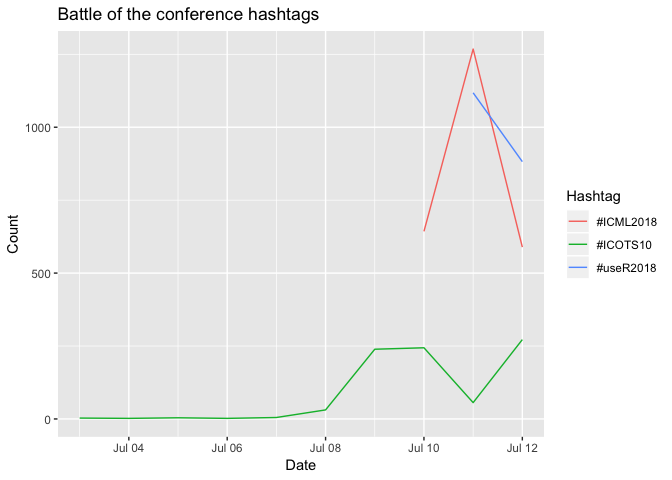
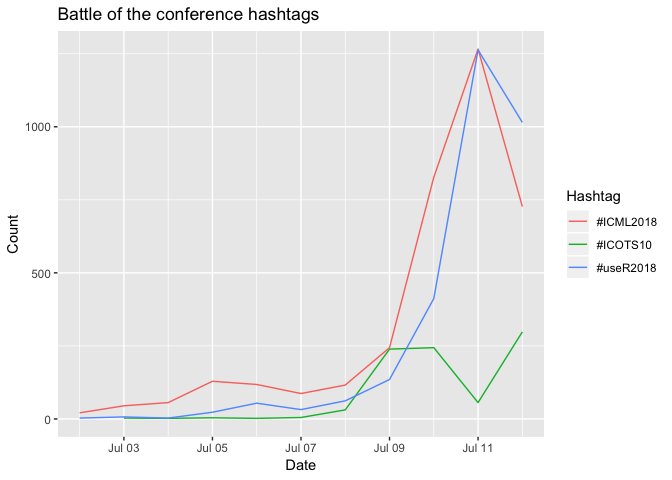
Improve tweet number

diff --git a/_posts/2018-07-11-icots10-tweets.md b/_posts/2018-07-11-icots10-tweets.md
@@ -6,6 +6,7 @@ tags:
   - R-code
   - social-media
 ---
+
 A tweet comparing ICML and useR got me thinking, and I've wanted to use the `twitteR` or `rtweet` package for a while...
 
 <blockquote class="twitter-tweet" data-lang="en">
@@ -16,6 +17,7 @@ How does <a href="https://twitter.com/hashtag/ICOTS10?src=hash&amp;ref_src=twsrc
 </blockquote>
 <script async src="https://platform.twitter.com/widgets.js" charset="utf-8"></script>
 
+-   [Number of tweets by conference](#number-of-tweets-by-conference)
 -   [How about number of retweets by conference?](#how-about-number-of-retweets-by-conference)
 -   [Number of favourites?](#number-of-favourites)
 -   [What about percentage of tweets getting favourited or retweeted?](#what-about-percentage-of-tweets-getting-favourited-or-retweeted)
@@ -24,11 +26,10 @@ How does <a href="https://twitter.com/hashtag/ICOTS10?src=hash&amp;ref_src=twsrc
 -   [Emojis ❤](#emojis)
 -   [Checking if we can scrape the emoji lists](#checking-if-we-can-scrape-the-emoji-lists)
 -   [Scraping the emoji lists](#scraping-the-emoji-lists)
--   [Is this just because of emoji spammers?](#is-this-just-because-of-emoji-spammers)
 -   [More from ICOTS](#more-from-icots)
 -   [Vanity time: My best tweets?](#vanity-time-my-best-tweets)
 
-*Last updated:* 12 Jul approx 9:33pm Kyoto time.
+*Last updated:* 12 Jul approx 11:15pm Kyoto time.
 
 Here are some libraries we'll use. (Also note that I made a [GitHub gist with the code to get from the beginning to the first graph](https://gist.github.com/elb0/221b98cd7f89674515f2a25a6cde5859).) I couldn't get the authentication to work for `rtweet`, unfortunately.
 
@@ -44,6 +45,7 @@ library(robotstxt)
 library(rvest)
 library(tibble)
 library(data.table)
+library(DT)
 {% endhighlight %}
 
 Just one thing to be careful of, you'll need to get your own twitter keys. [This might be quite helpful](https://medium.com/@GalarnykMichael/accessing-data-from-twitter-api-using-r-part1-b387a1c7d3e). I had to reset my keys to get the code to work. Not sure why, but [others have had the same issue](https://github.com/geoffjentry/twitteR/issues/74).
@@ -59,9 +61,9 @@ The tweet that inspired this shared a tweet that compared useR (a conference abo
 Also note, the `n =` were chosen by trial and error. Very sophisticated.
 
 {% highlight r %}
-icots = searchTwitter('#icots10', n = 1000)
-user = searchTwitter('#useR2018', n = 2000)
-icml = searchTwitter('#ICML2018', n = 2500)
+icots = searchTwitter('#icots10', n = 1100)
+user = searchTwitter('#useR2018', n = 3200)
+icml = searchTwitter('#ICML2018', n = 4000)
 
 icots_tweets = twListToDF(icots) %>%
   mutate(Hashtag = "#ICOTS10")
@@ -92,9 +94,7 @@ all_tweets = rbind(icots_tweets, user_tweets, icml_tweets) %>%
   mutate(date = format(created, format="%Y-%m-%d")) %>%
   filter(!str_detect(text, "@EthereumLimited:")) %>%
   filter(!str_detect(text, "Ethlimited"))
-{% endhighlight %}
 
-{% highlight r %}
 all_noRT = rbind(icots_noRT, user_noRT, icml_noRT) %>%
   mutate(date = format(created, format="%Y-%m-%d")) %>%
   filter(!str_detect(text, "@EthereumLimited:")) %>%
@@ -102,6 +102,8 @@ all_noRT = rbind(icots_noRT, user_noRT, icml_noRT) %>%
 {% endhighlight %}
 
 Let's take a look!
+
+### Number of tweets by conference
 
 {% highlight r %}
 all_tweets %>%
@@ -196,7 +198,7 @@ topretweetuser = toptweet %>%
   filter(Hashtag == "#useR2018")
 {% endhighlight %}
 
-Check out the most retweeted [ICOTS tweet](https://twitter.com/anyuser/status/1017390498275909634), [ICML tweet](https://twitter.com/anyuser/status/1017383089415380993) and [useR tweet](https://twitter.com/anyuser/status/1017379649549144067).
+Check out the most retweeted [ICOTS tweet](https://twitter.com/anyuser/status/1017403257851822080), [ICML tweet](https://twitter.com/anyuser/status/1017411760339341312) and [useR tweet](https://twitter.com/anyuser/status/1017410998725050368).
 
 ### The most favourites?
 
@@ -216,15 +218,15 @@ topfavuser = topfav %>%
   filter(Hashtag == "#useR2018")
 {% endhighlight %}
 
-Check out the most favourited [ICOTS tweet](https://twitter.com/anyuser/status/1016569243947724800), [ICML tweet](https://twitter.com/anyuser/status/1017059295052140544) and [useR tweet](https://twitter.com/anyuser/status/1016912611529510913).
+Check out the most favourited [ICOTS tweet](https://twitter.com/anyuser/status/1017244182035849216), [ICML tweet](https://twitter.com/anyuser/status/1017059295052140544) and [useR tweet](https://twitter.com/anyuser/status/1014967711036829696).
 
 ### Emojis ❤
 
 What better place to explore emojis from than the country that gave us the language that gave us the word! Ya follow? Emoji is a Japanese word that, if a quick Google search is to be believed, means "picture character".
 
-Anna Fergusson, \[@annafergussonnz\](<https://twitter.com/annafergussonnz>), and I, in our talk on [modern data in a large introductory statistics course](https://annafergusson.github.io/paristergram/) based on the awesome work Anna has been driving, tried to quickly show how emoji analysis can be a bit of fun. So let's keep that up here.
+Anna Fergusson, (@annafergussonnz)\[<https://twitter.com/annafergussonnz>\], and I, in our talk on (modern data in a large introductory statistics course)\[<https://annafergusson.github.io/paristergram/>\] based on the awesome work Anna has been driving, tried to quickly show how emoji analysis can be a bit of fun. So let's keep that up here.
 
-This first section is mostly just copied from the work Anna and I did that will be up on the \[Parisgram site\]((<https://annafergusson.github.io/paristergram/>) at somepoint. The emoji handling is not very elegant right now.
+This first section is mostly just copied from the work Anna and I did that will be up on the (Parisgram site)\[<https://annafergusson.github.io/paristergram/>\] at somepoint. The emoji handling is not very elegant right now.
 
 There is a table provided by the Unicode organisation that has the emoji, and an additional one that details skintone variations. These also provide a text description and groups the emoji into wider groups, like flags, buildings, types of facial expression etc. It would be ideal to have that information in R to work with directly, so I want to scrape the tables into R. I can check if this seems to be allowed by using the `robotstxt` package. There are a range of other ways to get databases like this, this just seemed easiest for this case.
 
@@ -369,11 +371,13 @@ emoji_prop_user = sum(!is.na(emoji_spread_user$`1`))/dim(unique_user)[1]
 emoji_prop_icml = sum(!is.na(emoji_spread_icml$`1`))/dim(unique_icml)[1]
 {% endhighlight %}
 
-So 6% of ICOTS tweets had at least one emoji in them, 12% of useR tweets and 4% of ICML tweets.
+So 7% of ICOTS tweets had at least one emoji in them, 13% of useR tweets and 3% of ICML tweets.
 
 #### Which emoji were the most popular?
 
 This is a not very elegant function to count how many times each emoji in the emoji\_ref dataframe appears in the text you're analysing (in the form of the all columns from the emoji\_spread dataset). I'm also not 100% sure the tryCatch is set up properly - it needs a tryCatch because I keep getting errors for the keycap: \* emoji.
+
+The second function doesn't count repeats of emoji in that same tweet. I know at least one of my tweets had a gratuitous number of hand clap emojis. Will not counting repeats in a tweet change the top used emoji? `str_detect` is quite useful for that.
 
 {% highlight r %}
 emoji_counter = function(data_col, emoji_from_ref){
@@ -383,99 +387,7 @@ emoji_counter = function(data_col, emoji_from_ref){
   )
   return(counts)
 }
-{% endhighlight %}
 
-#### Top \#ICOTS10 emojis
-
-{% highlight r %}
-# This can take a bit of time to run
-emoji_counts_icots = emoji_ref %>%
-  rowwise() %>%
-  mutate(counts = NA) %>%
-  mutate(counts = emoji_counter(emoji_spread_icots$all, emoji)) %>%
-  arrange(number) %>%
-  mutate(rank = round(rank(-counts), 0)) %>%
-  select(-c(character_length, number)) %>%
-  filter(counts > 0) %>%
-  arrange(desc(counts)) %>%
-  filter(rank <= 5) %>%
-  select(emoji, short_name, counts)
-emoji_counts_icots
-{% endhighlight %}
-
-    ## # A tibble: 4 x 3
-    ##   emoji short_name                   counts
-    ##   <chr> <fct>                         <int>
-    ## 1 😍    smiling face with heart-eyes      8
-    ## 2 🔥    fire                              6
-    ## 3 👏    clapping hands                    5
-    ## 4 😂    face with tears of joy            3
-
-#### Top \#useR2018 emoji
-
-{% highlight r %}
-emoji_counts_user = emoji_ref %>%
-  rowwise() %>%
-  mutate(counts = NA) %>%
-  mutate(counts = emoji_counter(emoji_spread_user$all, emoji)) %>%
-  arrange(number) %>%
-  mutate(rank = round(rank(-counts), 0)) %>%
-  select(-c(character_length, number)) %>%
-  filter(counts > 0)  %>%
-  arrange(desc(counts)) %>%
-  filter(rank <= 5) %>%
-  select(emoji, short_name, counts)
-emoji_counts_user
-{% endhighlight %}
-
-    ## # A tibble: 4 x 3
-    ##   emoji short_name                   counts
-    ##   <chr> <fct>                         <int>
-    ## 1 🏉    rugby football                   18
-    ## 2 📦    package                          16
-    ## 3 🌧    cloud with rain                   9
-    ## 4 😍    smiling face with heart-eyes      7
-
-#### Top \#ICML2018 emoji
-
-{% highlight r %}
-emoji_counts_icml = emoji_ref %>%
-  rowwise() %>%
-  mutate(counts = NA) %>%
-  mutate(counts = emoji_counter(emoji_spread_icml$all, emoji)) %>%
-  arrange(number) %>%
-  mutate(rank = round(rank(-counts), 0)) %>%
-  select(-c(character_length, number)) %>%
-  filter(counts > 0)  %>%
-  arrange(desc(counts)) %>%
-  filter(rank <= 5) %>%
-  select(emoji, short_name, counts)
-emoji_counts_icml
-{% endhighlight %}
-
-    ## # A tibble: 6 x 3
-    ##   emoji short_name                      counts
-    ##   <chr> <fct>                            <int>
-    ## 1 🔥    fire                                 8
-    ## 2 😂    face with tears of joy               3
-    ## 3 😄    grinning face with smiling eyes      2
-    ## 4 🤔    thinking face                        2
-    ## 5 🙌    raising hands                        2
-    ## 6 ✈    airplane                             2
-
-Previous tops here:
-<blockquote class="twitter-tweet" data-lang="en">
-<p lang="en" dir="ltr">
-Top 5ish emojis from three different conferences (as of 15 mins ago). Ranked 1-5ish, left to right, in ( ) means equal counts.<a href="https://twitter.com/hashtag/ICOTS10?src=hash&amp;ref_src=twsrc%5Etfw">\#ICOTS10</a> 😍👏(😂🐱🎨🎼)<a href="https://twitter.com/hashtag/useR2018?src=hash&amp;ref_src=twsrc%5Etfw">\#useR2018</a>: 📦👌(😍🌧)<a href="https://twitter.com/hashtag/ICML2018?src=hash&amp;ref_src=twsrc%5Etfw">\#ICML2018</a>: 🔥😂(😁🤔🙌✈✔)<br><br>Code: <a href="https://t.co/yixpezWy8p">https://t.co/yixpezWy8p</a><br>Of course, this tweet will mess it up!
-</p>
-— Liza Bolton (@Liza\_Bolton) <a href="https://twitter.com/Liza_Bolton/status/1017216200697212928?ref_src=twsrc%5Etfw">July 12, 2018</a>
-</blockquote>
-<script async src="https://platform.twitter.com/widgets.js" charset="utf-8"></script>
-### Is this just because of emoji spammers?
-
-I know at least one of my tweets had a gratuitous number of hand clap emojis. What if we limit to one per Tweet? Does that change the top used emoji? `str_detect` is quie useful for that.
-
-{% highlight r %}
 emoji_counter_single = function(data_col, emoji_from_ref){
   counts = tryCatch({
     sum(str_detect(data_col, emoji_from_ref))
@@ -485,86 +397,83 @@ emoji_counter_single = function(data_col, emoji_from_ref){
 }
 {% endhighlight %}
 
-#### Top \#ICOTS10 emojis - less spammy
+You can short by either ranking (`count` or `rank` include repeats in a tweet, `count_single` and `rank_single` don't include repeats within a tweet)
+
+#### Top \#ICOTS10 emojis
 
 {% highlight r %}
 # This can take a bit of time to run
-emoji_counts_icots_ = emoji_ref %>%
+emoji_counts_icots = emoji_ref %>%
   rowwise() %>%
   mutate(counts = NA) %>%
-  mutate(counts = emoji_counter_single(emoji_spread_icots$all, emoji)) %>%
+  mutate(counts = emoji_counter(emoji_spread_icots$all, emoji)) %>%
+  mutate(counts_single = emoji_counter_single(emoji_spread_icots$all, emoji)) %>%
   arrange(number) %>%
   mutate(rank = round(rank(-counts), 0)) %>%
+  mutate(rank_single = round(rank(-counts_single), 0)) %>%
   select(-c(character_length, number)) %>%
   filter(counts > 0) %>%
   arrange(desc(counts)) %>%
-  filter(rank <= 5) %>%
-  select(emoji, short_name, counts)
-emoji_counts_icots_
+  select(emoji, short_name, counts, rank, counts_single, rank_single)
+DT::datatable(emoji_counts_icots)
 {% endhighlight %}
 
-    ## # A tibble: 7 x 3
-    ##   emoji short_name                   counts
-    ##   <chr> <fct>                         <int>
-    ## 1 😍    smiling face with heart-eyes      4
-    ## 2 😂    face with tears of joy            3
-    ## 3 ❤    red heart                         2
-    ## 4 🐱    cat face                          2
-    ## 5 🔥    fire                              2
-    ## 6 🎨    artist palette                    2
-    ## 7 🎼    musical score                     2
+<!--html_preserve-->
 
-#### Top \#useR2018 emoji - less spammy
+<script type="application/json" data-for="htmlwidget-fb98d4395036a94a422f">{"x":{"filter":"none","data":[["1","2","3","4","5","6","7","8","9","10","11","12","13","14","15","16","17","18","19"],["😍","🔥","👏","😂","❤","🐱","⚡","🎨","🎼","😀","🙂","😔","😢","👩","💥","🏫","🗼","🎸","🇫🇷"],["smiling face with heart-eyes","fire","clapping hands","face with tears of joy","red heart","cat face","high voltage","artist palette","musical score","grinning face","slightly smiling face","pensive face","crying face","woman","collision","school","Tokyo tower","guitar","flag: France"],[8,6,5,3,2,2,2,2,2,1,1,1,1,1,1,1,1,1,1],[1,2,3,4,7,7,7,7,7,14,14,14,14,14,14,14,14,14,14],[4,2,1,3,2,2,1,2,2,1,1,1,1,1,1,1,1,1,1],[1,5,14,2,5,5,14,5,5,14,14,14,14,14,14,14,14,14,14]],"container":"<table class=\"display\">\n  <thead>\n    <tr>\n      <th> <\/th>\n      <th>emoji<\/th>\n      <th>short_name<\/th>\n      <th>counts<\/th>\n      <th>rank<\/th>\n      <th>counts_single<\/th>\n      <th>rank_single<\/th>\n    <\/tr>\n  <\/thead>\n<\/table>","options":{"columnDefs":[{"className":"dt-right","targets":[3,4,5,6]},{"orderable":false,"targets":0}],"order":[],"autoWidth":false,"orderClasses":false}},"evals":[],"jsHooks":[]}</script>
+<!--/html_preserve-->
+#### Top \#useR2018 emoji
 
 {% highlight r %}
-emoji_counts_user_ = emoji_ref %>%
+emoji_counts_user = emoji_ref %>%
   rowwise() %>%
   mutate(counts = NA) %>%
-  mutate(counts = emoji_counter_single(emoji_spread_user$all, emoji)) %>%
+  mutate(counts = emoji_counter(emoji_spread_icots$all, emoji)) %>%
+  mutate(counts_single = emoji_counter_single(emoji_spread_icots$all, emoji)) %>%
   arrange(number) %>%
   mutate(rank = round(rank(-counts), 0)) %>%
+  mutate(rank_single = round(rank(-counts_single), 0)) %>%
   select(-c(character_length, number)) %>%
-  filter(counts > 0)  %>%
+  filter(counts > 0) %>%
   arrange(desc(counts)) %>%
-  filter(rank <= 5) %>%
-  select(emoji, short_name, counts)
-emoji_counts_user_
+  select(emoji, short_name, counts, rank, counts_single, rank_single)
+DT::datatable(emoji_counts_user)
 {% endhighlight %}
 
-    ## # A tibble: 3 x 3
-    ##   emoji short_name                   counts
-    ##   <chr> <fct>                         <int>
-    ## 1 📦    package                          14
-    ## 2 😂    face with tears of joy            6
-    ## 3 😍    smiling face with heart-eyes      5
+<!--html_preserve-->
 
-#### Top \#ICML2018 emoji - less spammy
+<script type="application/json" data-for="htmlwidget-25f3521cd4187faa4b63">{"x":{"filter":"none","data":[["1","2","3","4","5","6","7","8","9","10","11","12","13","14","15","16","17","18","19"],["😍","🔥","👏","😂","❤","🐱","⚡","🎨","🎼","😀","🙂","😔","😢","👩","💥","🏫","🗼","🎸","🇫🇷"],["smiling face with heart-eyes","fire","clapping hands","face with tears of joy","red heart","cat face","high voltage","artist palette","musical score","grinning face","slightly smiling face","pensive face","crying face","woman","collision","school","Tokyo tower","guitar","flag: France"],[8,6,5,3,2,2,2,2,2,1,1,1,1,1,1,1,1,1,1],[1,2,3,4,7,7,7,7,7,14,14,14,14,14,14,14,14,14,14],[4,2,1,3,2,2,1,2,2,1,1,1,1,1,1,1,1,1,1],[1,5,14,2,5,5,14,5,5,14,14,14,14,14,14,14,14,14,14]],"container":"<table class=\"display\">\n  <thead>\n    <tr>\n      <th> <\/th>\n      <th>emoji<\/th>\n      <th>short_name<\/th>\n      <th>counts<\/th>\n      <th>rank<\/th>\n      <th>counts_single<\/th>\n      <th>rank_single<\/th>\n    <\/tr>\n  <\/thead>\n<\/table>","options":{"columnDefs":[{"className":"dt-right","targets":[3,4,5,6]},{"orderable":false,"targets":0}],"order":[],"autoWidth":false,"orderClasses":false}},"evals":[],"jsHooks":[]}</script>
+<!--/html_preserve-->
+#### Top \#ICML2018 emoji
 
 {% highlight r %}
-emoji_counts_icml_ = emoji_ref %>%
+emoji_counts_icml = emoji_ref %>%
   rowwise() %>%
   mutate(counts = NA) %>%
-  mutate(counts = emoji_counter_single(emoji_spread_icml$all, emoji)) %>%
+  mutate(counts = emoji_counter(emoji_spread_icots$all, emoji)) %>%
+  mutate(counts_single = emoji_counter_single(emoji_spread_icots$all, emoji)) %>%
   arrange(number) %>%
   mutate(rank = round(rank(-counts), 0)) %>%
+  mutate(rank_single = round(rank(-counts_single), 0)) %>%
   select(-c(character_length, number)) %>%
-  filter(counts > 0)  %>%
+  filter(counts > 0) %>%
   arrange(desc(counts)) %>%
-  filter(rank <= 5) %>%
-  select(emoji, short_name, counts)
-emoji_counts_icml_
+  select(emoji, short_name, counts, rank, counts_single, rank_single)
+DT::datatable(emoji_counts_icml)
 {% endhighlight %}
 
-    ## # A tibble: 6 x 3
-    ##   emoji short_name                      counts
-    ##   <chr> <fct>                            <int>
-    ## 1 😂    face with tears of joy               2
-    ## 2 😄    grinning face with smiling eyes      2
-    ## 3 🤔    thinking face                        2
-    ## 4 🙌    raising hands                        2
-    ## 5 ✈    airplane                             2
-    ## 6 🔥    fire                                 2
+<!--html_preserve-->
 
+<script type="application/json" data-for="htmlwidget-8a615fc88242363c693d">{"x":{"filter":"none","data":[["1","2","3","4","5","6","7","8","9","10","11","12","13","14","15","16","17","18","19"],["😍","🔥","👏","😂","❤","🐱","⚡","🎨","🎼","😀","🙂","😔","😢","👩","💥","🏫","🗼","🎸","🇫🇷"],["smiling face with heart-eyes","fire","clapping hands","face with tears of joy","red heart","cat face","high voltage","artist palette","musical score","grinning face","slightly smiling face","pensive face","crying face","woman","collision","school","Tokyo tower","guitar","flag: France"],[8,6,5,3,2,2,2,2,2,1,1,1,1,1,1,1,1,1,1],[1,2,3,4,7,7,7,7,7,14,14,14,14,14,14,14,14,14,14],[4,2,1,3,2,2,1,2,2,1,1,1,1,1,1,1,1,1,1],[1,5,14,2,5,5,14,5,5,14,14,14,14,14,14,14,14,14,14]],"container":"<table class=\"display\">\n  <thead>\n    <tr>\n      <th> <\/th>\n      <th>emoji<\/th>\n      <th>short_name<\/th>\n      <th>counts<\/th>\n      <th>rank<\/th>\n      <th>counts_single<\/th>\n      <th>rank_single<\/th>\n    <\/tr>\n  <\/thead>\n<\/table>","options":{"columnDefs":[{"className":"dt-right","targets":[3,4,5,6]},{"orderable":false,"targets":0}],"order":[],"autoWidth":false,"orderClasses":false}},"evals":[],"jsHooks":[]}</script>
+<!--/html_preserve-->
+Previous tops here:
+<blockquote class="twitter-tweet" data-lang="en">
+<p lang="en" dir="ltr">
+Top 5ish emojis from three different conferences (as of 15 mins ago). Ranked 1-5ish, left to right, in ( ) means equal counts.<a href="https://twitter.com/hashtag/ICOTS10?src=hash&amp;ref_src=twsrc%5Etfw">\#ICOTS10</a> 😍👏(😂🐱🎨🎼)<a href="https://twitter.com/hashtag/useR2018?src=hash&amp;ref_src=twsrc%5Etfw">\#useR2018</a>: 📦👌(😍🌧)<a href="https://twitter.com/hashtag/ICML2018?src=hash&amp;ref_src=twsrc%5Etfw">\#ICML2018</a>: 🔥😂(😁🤔🙌✈✔)<br><br>Code: <a href="https://t.co/yixpezWy8p">https://t.co/yixpezWy8p</a><br>Of course, this tweet will mess it up!
+</p>
+— Liza Bolton (@Liza\_Bolton) <a href="https://twitter.com/Liza_Bolton/status/1017216200697212928?ref_src=twsrc%5Etfw">July 12, 2018</a>
+</blockquote>
+<script async src="https://platform.twitter.com/widgets.js" charset="utf-8"></script>
 More from ICOTS
 ---------------
 
@@ -577,7 +486,8 @@ Delighted to be at <a href="https://twitter.com/hashtag/icots10?src=hash&amp;ref
 — Liza Bolton (@Liza\_Bolton) <a href="https://twitter.com/Liza_Bolton/status/1015879520576942080?ref_src=twsrc%5Etfw">July 8, 2018</a>
 </blockquote>
 <script async src="https://platform.twitter.com/widgets.js" charset="utf-8"></script>
-### Vanity time: My best tweets?
+Vanity time: My best tweets?
+----------------------------
 
 I kinda want to know which of my tweets did the best too...
 
@@ -594,6 +504,6 @@ myfavtweets = mytweets %>%
   filter(favoriteCount == max(favoriteCount))
 {% endhighlight %}
 
-[Turns out this one had the most retweets](https://twitter.com/anyuser/status/), with 9 retweets and 31 favourites. Thanks guys!
+[Turns out this one had the most retweets](https://twitter.com/anyuser/status/), with 10 retweets and 0 favourites. Thanks guys!
 
-I tweeted 7% of the \#ICOTS10 tweets.
+I tweeted 6% of the \#ICOTS10 tweets.
